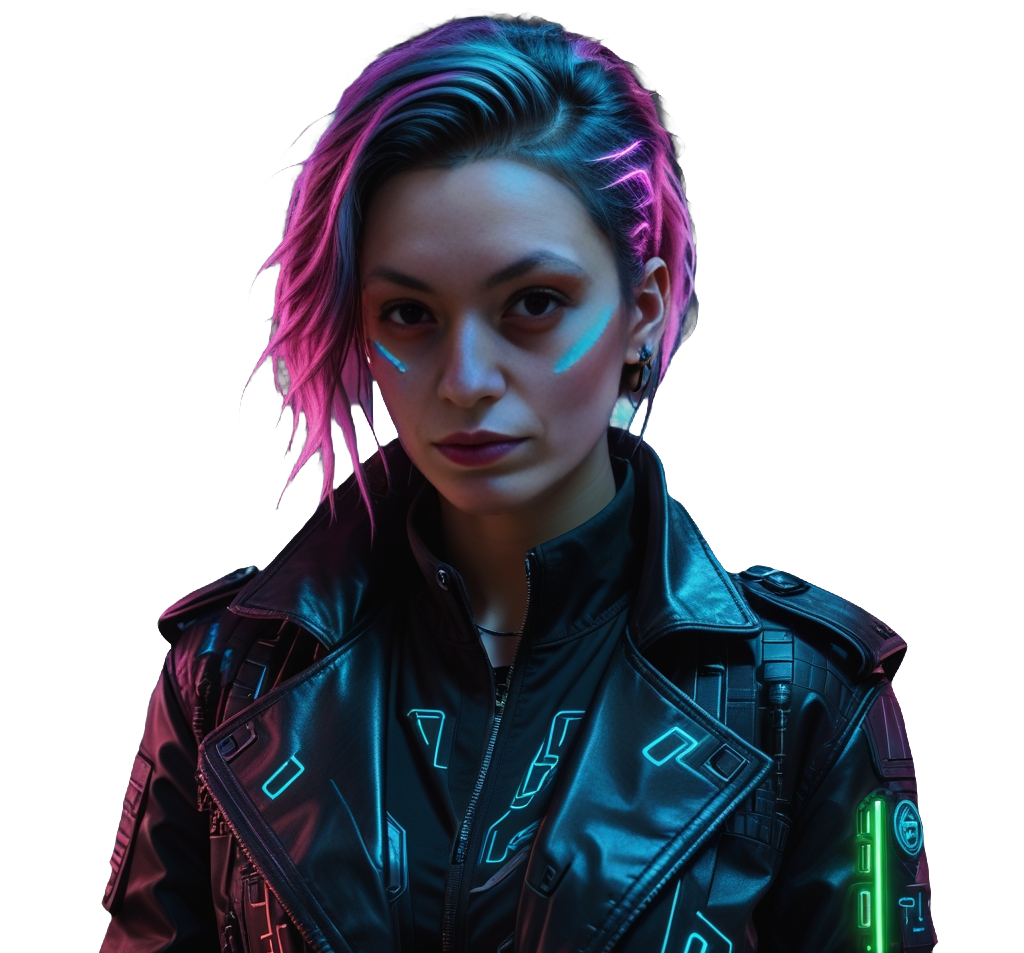
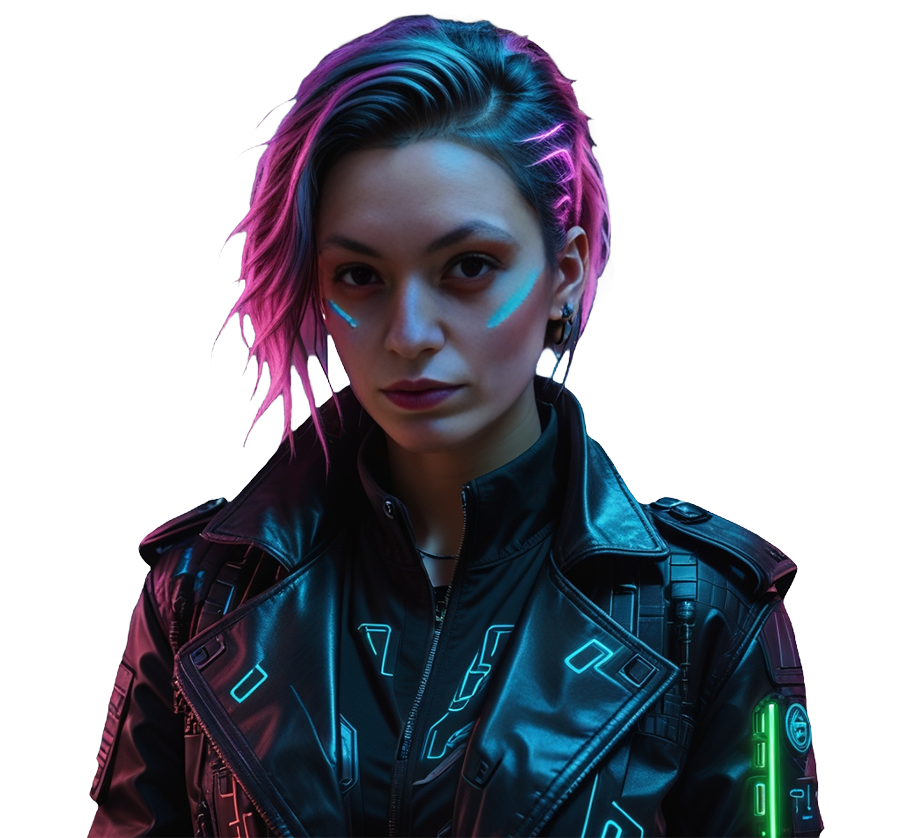
Added main photo (one of the variations of design)

diff --git a/css/style.css b/css/style.css
@@ -13,7 +13,7 @@
   /* псевдокласс, который выбирает самый верхний элемент в дереве документа — это обычно элемент <html> в HTML-документе. Это аналогично селектору html, но с ключевым отличием: :root имеет более высокий приоритет в некоторых случаях, особенно в контексте кастомных свойств (переменных) и глобальных стилей */
   --bg-color: #fdfdfd;
   --text-color: #333;
-  --main-color: #2b4162;
+  --main-color: #0a1f30;
   --white-color: #fdfdfd;
   --shadow-color: #rgba(0, 0, 0, 0.2);
 }
@@ -249,49 +249,10 @@ section {
   border-left: 384px solid transparent;
 }
 
-/* .home__img img {
- 
+.home__img img {
   position: absolute;
   bottom: 0;
   right: 0;
-  width: 40rem;
+  width: 100%;
   pointer-events: none;
-  margin-right: 100px;
-} */
-
-span {
-  color: var(--main-color);
-}
-
-.about {
-  display: flex;
-  justify-content: center;
-  /* align-items:center; */
-  gap: 4rem;
-}
-
-.about__img img {
-  width: 40vw; /* это значит, что ширина элемента будет равна 40% от ширины видимой области браузера */
-}
-
-.heading {
-  font-size: 4.5rem;
-  text-align: center;
-}
-
-.about__content {
-  margin-top: 200px; /* !!! */
-}
-.about__content h2 {
-  text-align: left;
-  line-height: 1.2;
-}
-
-.about__content h3 {
-  font-size: 2rem;
-}
-
-.about__content p {
-  font-size: 1.6rem;
-  margin: 2rem 0 3rem;
 }

diff --git a/index.html b/index.html
@@ -69,25 +69,13 @@
           <div class="circle"></div>
         </div>
         <div class="overlay"></div>
+        <div class="home__img">
+          <img src="img/me3.png" alt="" />
+        </div>
       </div>
-      <!--  <div class="home__img">
-        <img src="img/me.png" alt="" />
-      </div> -->
     </section>
 
     <!-- about section design -->
-
-    <section class="about" id="about">
-      <div class="about__img">
-        <img src="img/aboutme.png" alt="about_me_section" />
-      </div>
-      <div class="about__content">
-        <h2 class="heading">About <span>Me</span></h2>
-        <h3>Hi, I'm here to help Your next project</h3>
-        <p>Lorem ipsum dolor sit amet consectetur adipisicing elit. Atque recusandae placeat quas fuga ducimus incidunt eos impedit pariatur, itaque eius.</p>
-        <a href="#" class="btn">Read more</a>
-      </div>
-    </section>
 
     <!-- services section design -->
 
